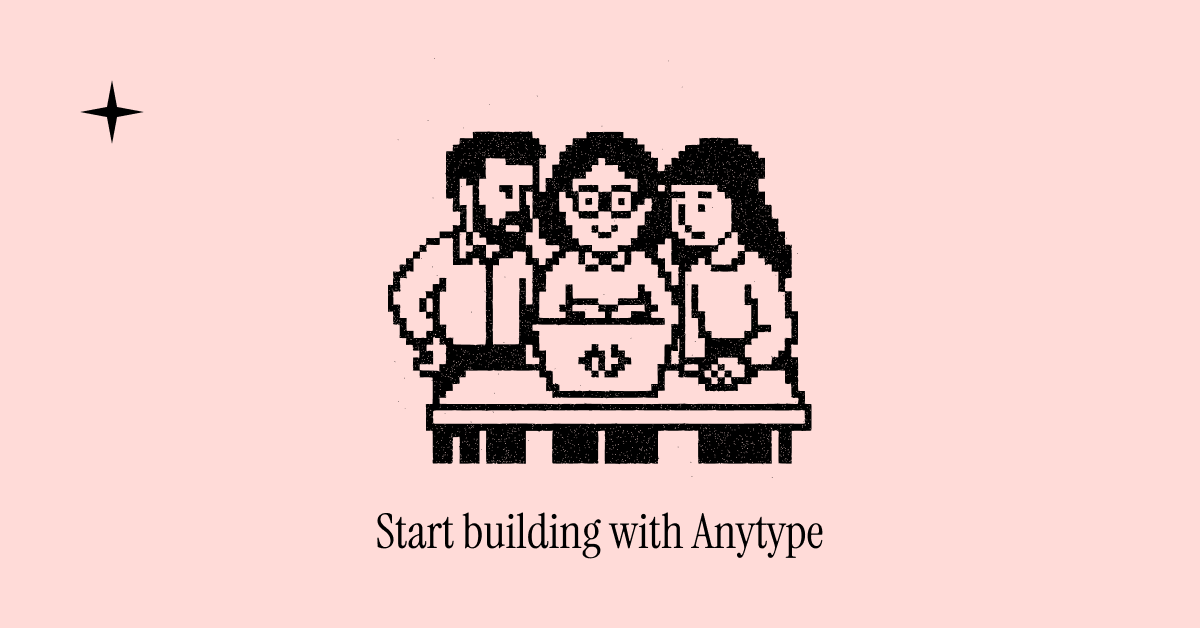
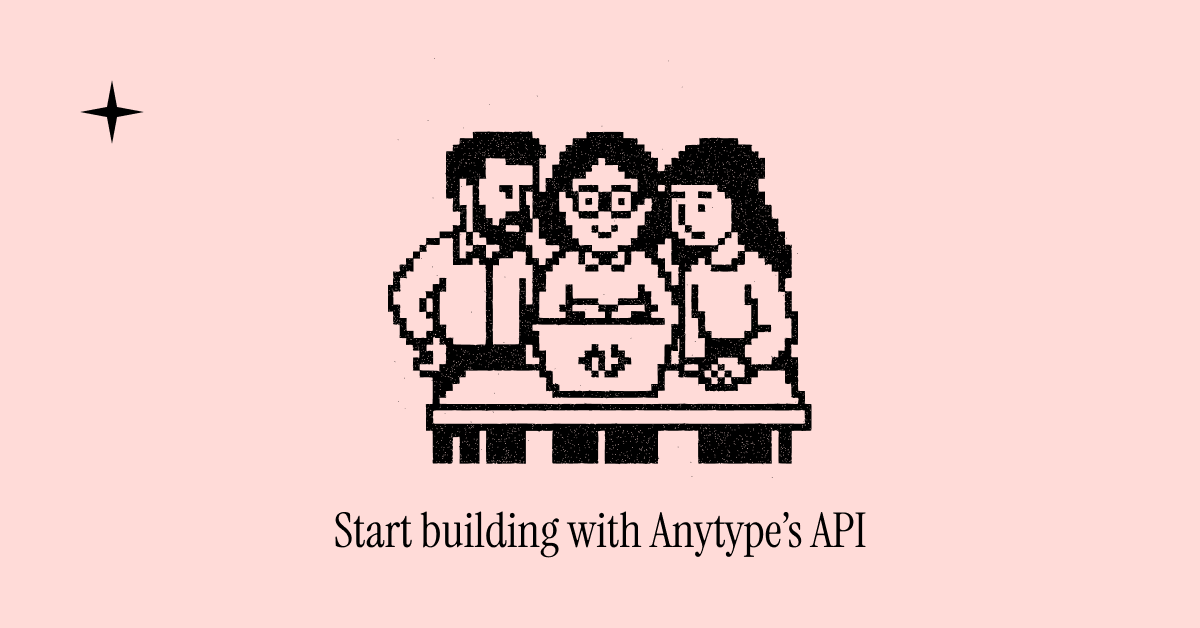
Update portal title

Changed region(s): [[0.2775, 0.8169, 0.74, 0.9076]]

diff --git a/docusaurus.config.ts b/docusaurus.config.ts
@@ -39,7 +39,7 @@ const config: Config = {
   themeConfig: {
     image: "img/twitter-card.png",
     metadata: [
-      { name: "twitter:title", content: "Start building with the Anytype API" },
+      { name: "twitter:title", content: "Start building with Anytype's API" },
       { name: "twitter:description", content: "The developer portal for extending Anytype through powerful integrations." },
       { name: "twitter:card", content: "summary_large_image" },
     ],
